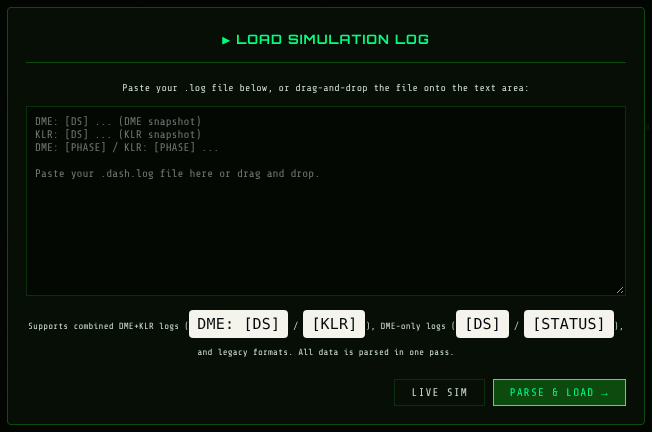
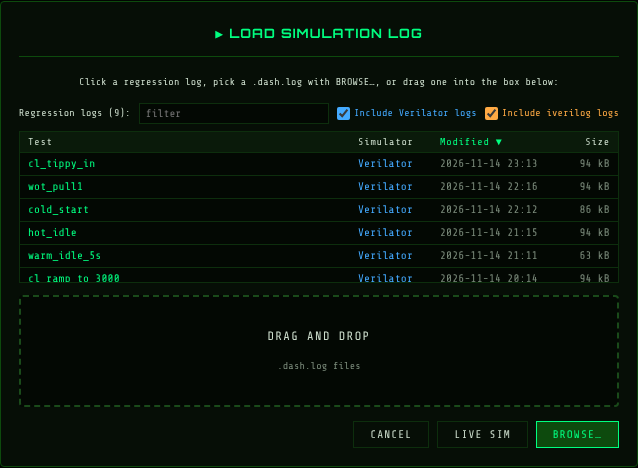
docs: the new LOAD LOG dialog (regression log list, BROWSE…, drag-and-drop)
New load-log-modal.png screenshot; both manuals describe the bridge's list of
Verilator (v_dash_logs) and iverilog (dash_logs) logs with its filter,
include checkboxes and sortable columns, BROWSE…, drag-and-drop and the
.dash.log-only rule, in place of paste and PARSE & LOAD.

Claude-Session: https://claude.ai/code/session_01XqUefoWtxdCAXS9bSRg7zd

Changed region(s): [[0.0, 0.0, 1.0, 1.0], [0.9232, 0.662, 0.953, 0.6921]]

diff --git a/docs/DEVELOPER_MANUAL.md b/docs/DEVELOPER_MANUAL.md
@@ -830,11 +830,35 @@ the right map graphs.
 
 ### Opening a log
 
-1. Press **LOAD LOG ▲**. The dialog opens by itself when no log is loaded.
-2. Drag the `.dash.log` file onto the text box, or paste its text.
-3. Press **PARSE & LOAD →**.
+Press **LOAD LOG ▲**. The dialog opens by itself when no log is loaded. Open
+a log in any of three ways; each one loads it straight away:
+
+* **Regression logs list.** With the bridge running (`dme_klr/live/bridge.mjs`),
+  the dialog lists every `.dash.log` from the regression runs:
+  **Verilator** runs (`$DMEKLR_TMP/dme_klr/v_dash_logs`, from
+  `v_run_dashboard_tests.sh`) in blue and **iverilog** runs
+  (`$DMEKLR_TMP/dme_klr/dash_logs`, from `run_dashboard_tests.sh`) in orange.
+  Click a row to open that log.
+  * Type in the **filter** box to narrow the list. Every word must match the
+    test name or simulator, so `cl verilator` finds the Verilator
+    closed-loop runs.
+  * **Include Verilator logs** and **Include iverilog logs** hide either kind.
+    Both are checked each time the dialog opens.
+  * Click a column heading (**Test**, **Simulator**, **Modified**, **Size**)
+    to sort by it, and click it again to reverse. The list starts newest first.
+  * Without the bridge, the dialog says how to start it in place of the list.
+* **BROWSE…** opens your computer's file dialog. Browsers can't choose the
+  folder it starts in. It opens in the last folder you used, so after you
+  browse to `v_dash_logs` once it usually opens there again.
+* **Drag and drop** a `.dash.log` onto the dialog.
 
 ![Load log dialog](manual/load-log-modal.png)
+
+Only `.dash.log` files load from disk. The file dialog can filter only on the
+last extension, so it shows every `.log`; any other file you pick or drop is
+refused with a red note. The header shows the file name, and for a log from
+the list also its folder and simulator, e.g.
+`v_dash_logs/warm_idle_5s.dash.log (Verilator)`.
 
 The page opens at the **end** of the run, so both scrubbers can go back from
 there. Combined DME+KLR logs, DME-only logs and the older formats all load
@@ -1219,7 +1243,7 @@ The live sim is deterministic for the same inputs, so to get back to a moment:
   only knows the tests the runner starts with `run_test`, and the replay has
   its own driver. Review those logs in log mode and use the dashed **LOG
   (expected)** traces.
-* A log pasted from somewhere else, with no test or snapshot behind it, can be
+* A log from somewhere else, with no test or snapshot behind it, can be
   reviewed but not re-run.
 
 ---

diff --git a/docs/USER_MANUAL.md b/docs/USER_MANUAL.md
@@ -365,11 +365,35 @@ the right map graphs.
 
 ### Opening a log
 
-1. Press **LOAD LOG ▲**. The dialog opens by itself when no log is loaded.
-2. Drag the `.dash.log` file onto the text box, or paste its text.
-3. Press **PARSE & LOAD →**.
+Press **LOAD LOG ▲**. The dialog opens by itself when no log is loaded. Open
+a log in any of three ways; each one loads it straight away:
+
+* **Regression logs list.** With the bridge running (`dme_klr/live/bridge.mjs`),
+  the dialog lists every `.dash.log` from the regression runs:
+  **Verilator** runs (`$DMEKLR_TMP/dme_klr/v_dash_logs`, from
+  `v_run_dashboard_tests.sh`) in blue and **iverilog** runs
+  (`$DMEKLR_TMP/dme_klr/dash_logs`, from `run_dashboard_tests.sh`) in orange.
+  Click a row to open that log.
+  * Type in the **filter** box to narrow the list. Every word must match the
+    test name or simulator, so `cl verilator` finds the Verilator
+    closed-loop runs.
+  * **Include Verilator logs** and **Include iverilog logs** hide either kind.
+    Both are checked each time the dialog opens.
+  * Click a column heading (**Test**, **Simulator**, **Modified**, **Size**)
+    to sort by it, and click it again to reverse. The list starts newest first.
+  * Without the bridge, the dialog says how to start it in place of the list.
+* **BROWSE…** opens your computer's file dialog. Browsers can't choose the
+  folder it starts in. It opens in the last folder you used, so after you
+  browse to `v_dash_logs` once it usually opens there again.
+* **Drag and drop** a `.dash.log` onto the dialog.
 
 ![Load log dialog](manual/load-log-modal.png)
+
+Only `.dash.log` files load from disk. The file dialog can filter only on the
+last extension, so it shows every `.log`; any other file you pick or drop is
+refused with a red note. The header shows the file name, and for a log from
+the list also its folder and simulator, e.g.
+`v_dash_logs/warm_idle_5s.dash.log (Verilator)`.
 
 The page opens at the **end** of the run, so both scrubbers can go back from
 there. Combined DME+KLR logs, DME-only logs and the older formats all load
@@ -726,7 +750,7 @@ The live sim is deterministic for the same inputs, so to get back to a moment:
 
 ### Limits
 
-* A log pasted from somewhere else, with no test or snapshot behind it, can be
+* A log from somewhere else, with no test or snapshot behind it, can be
   reviewed but not re-run.
 
 ---
